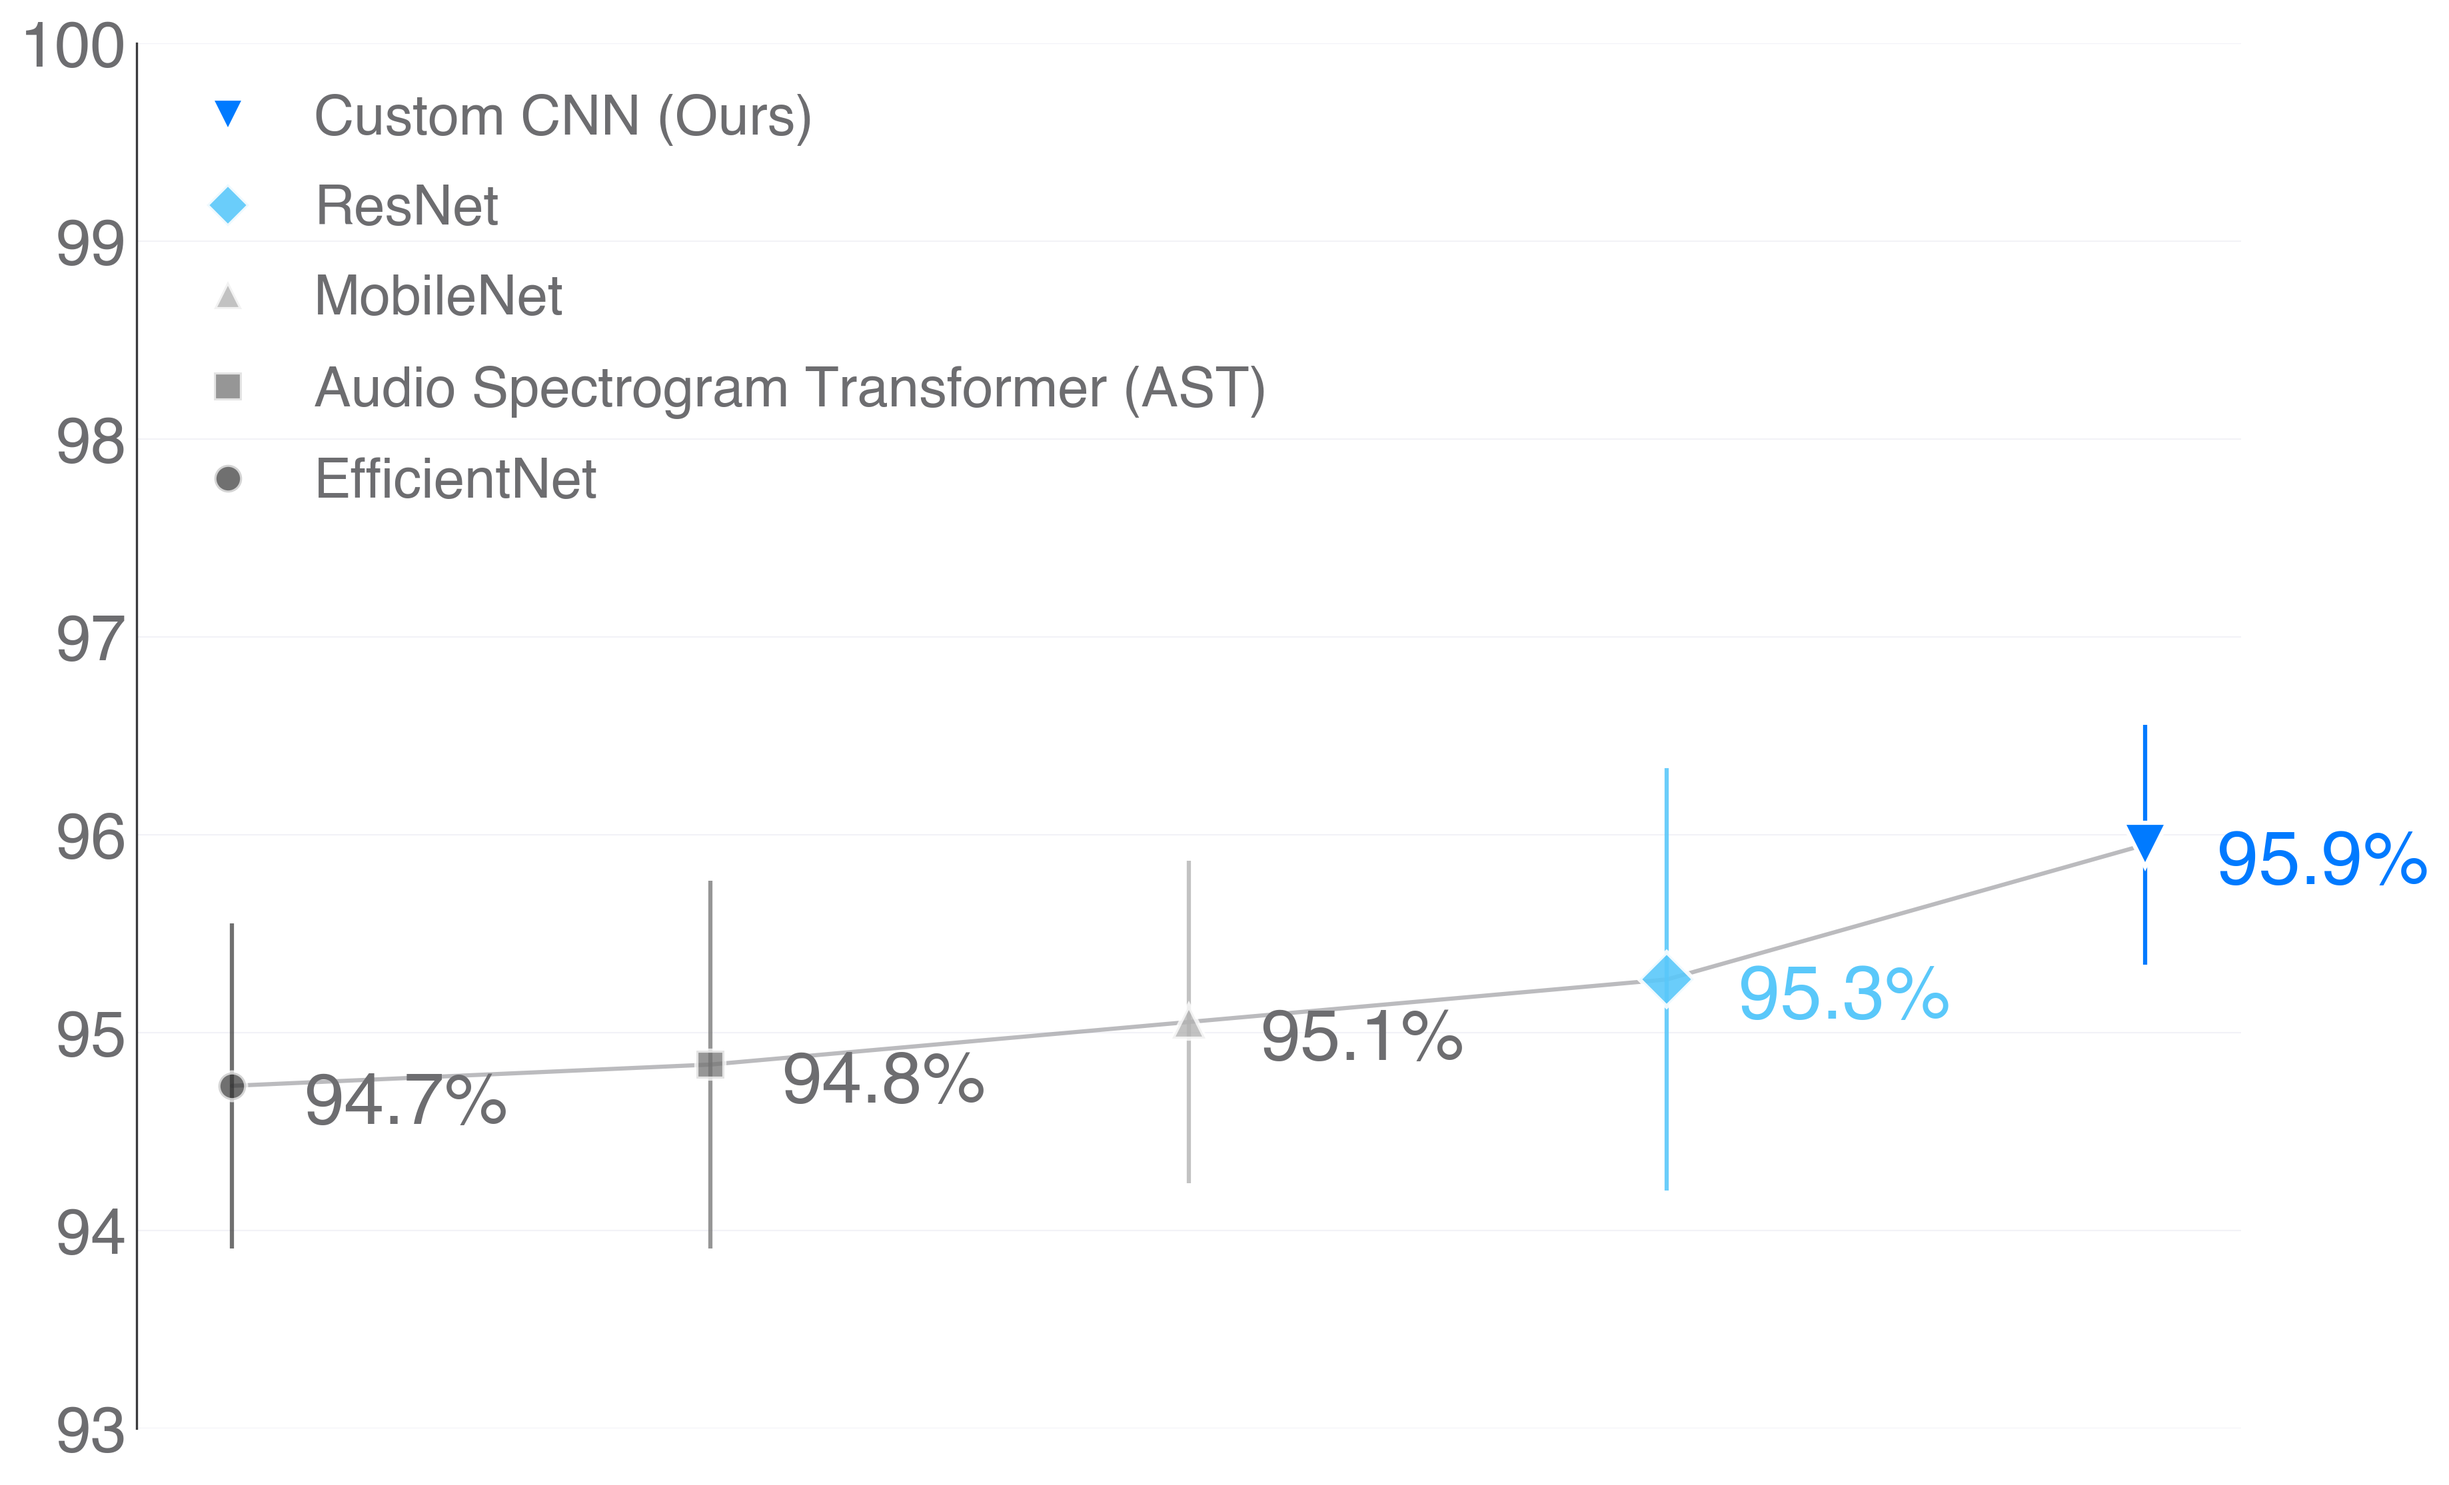
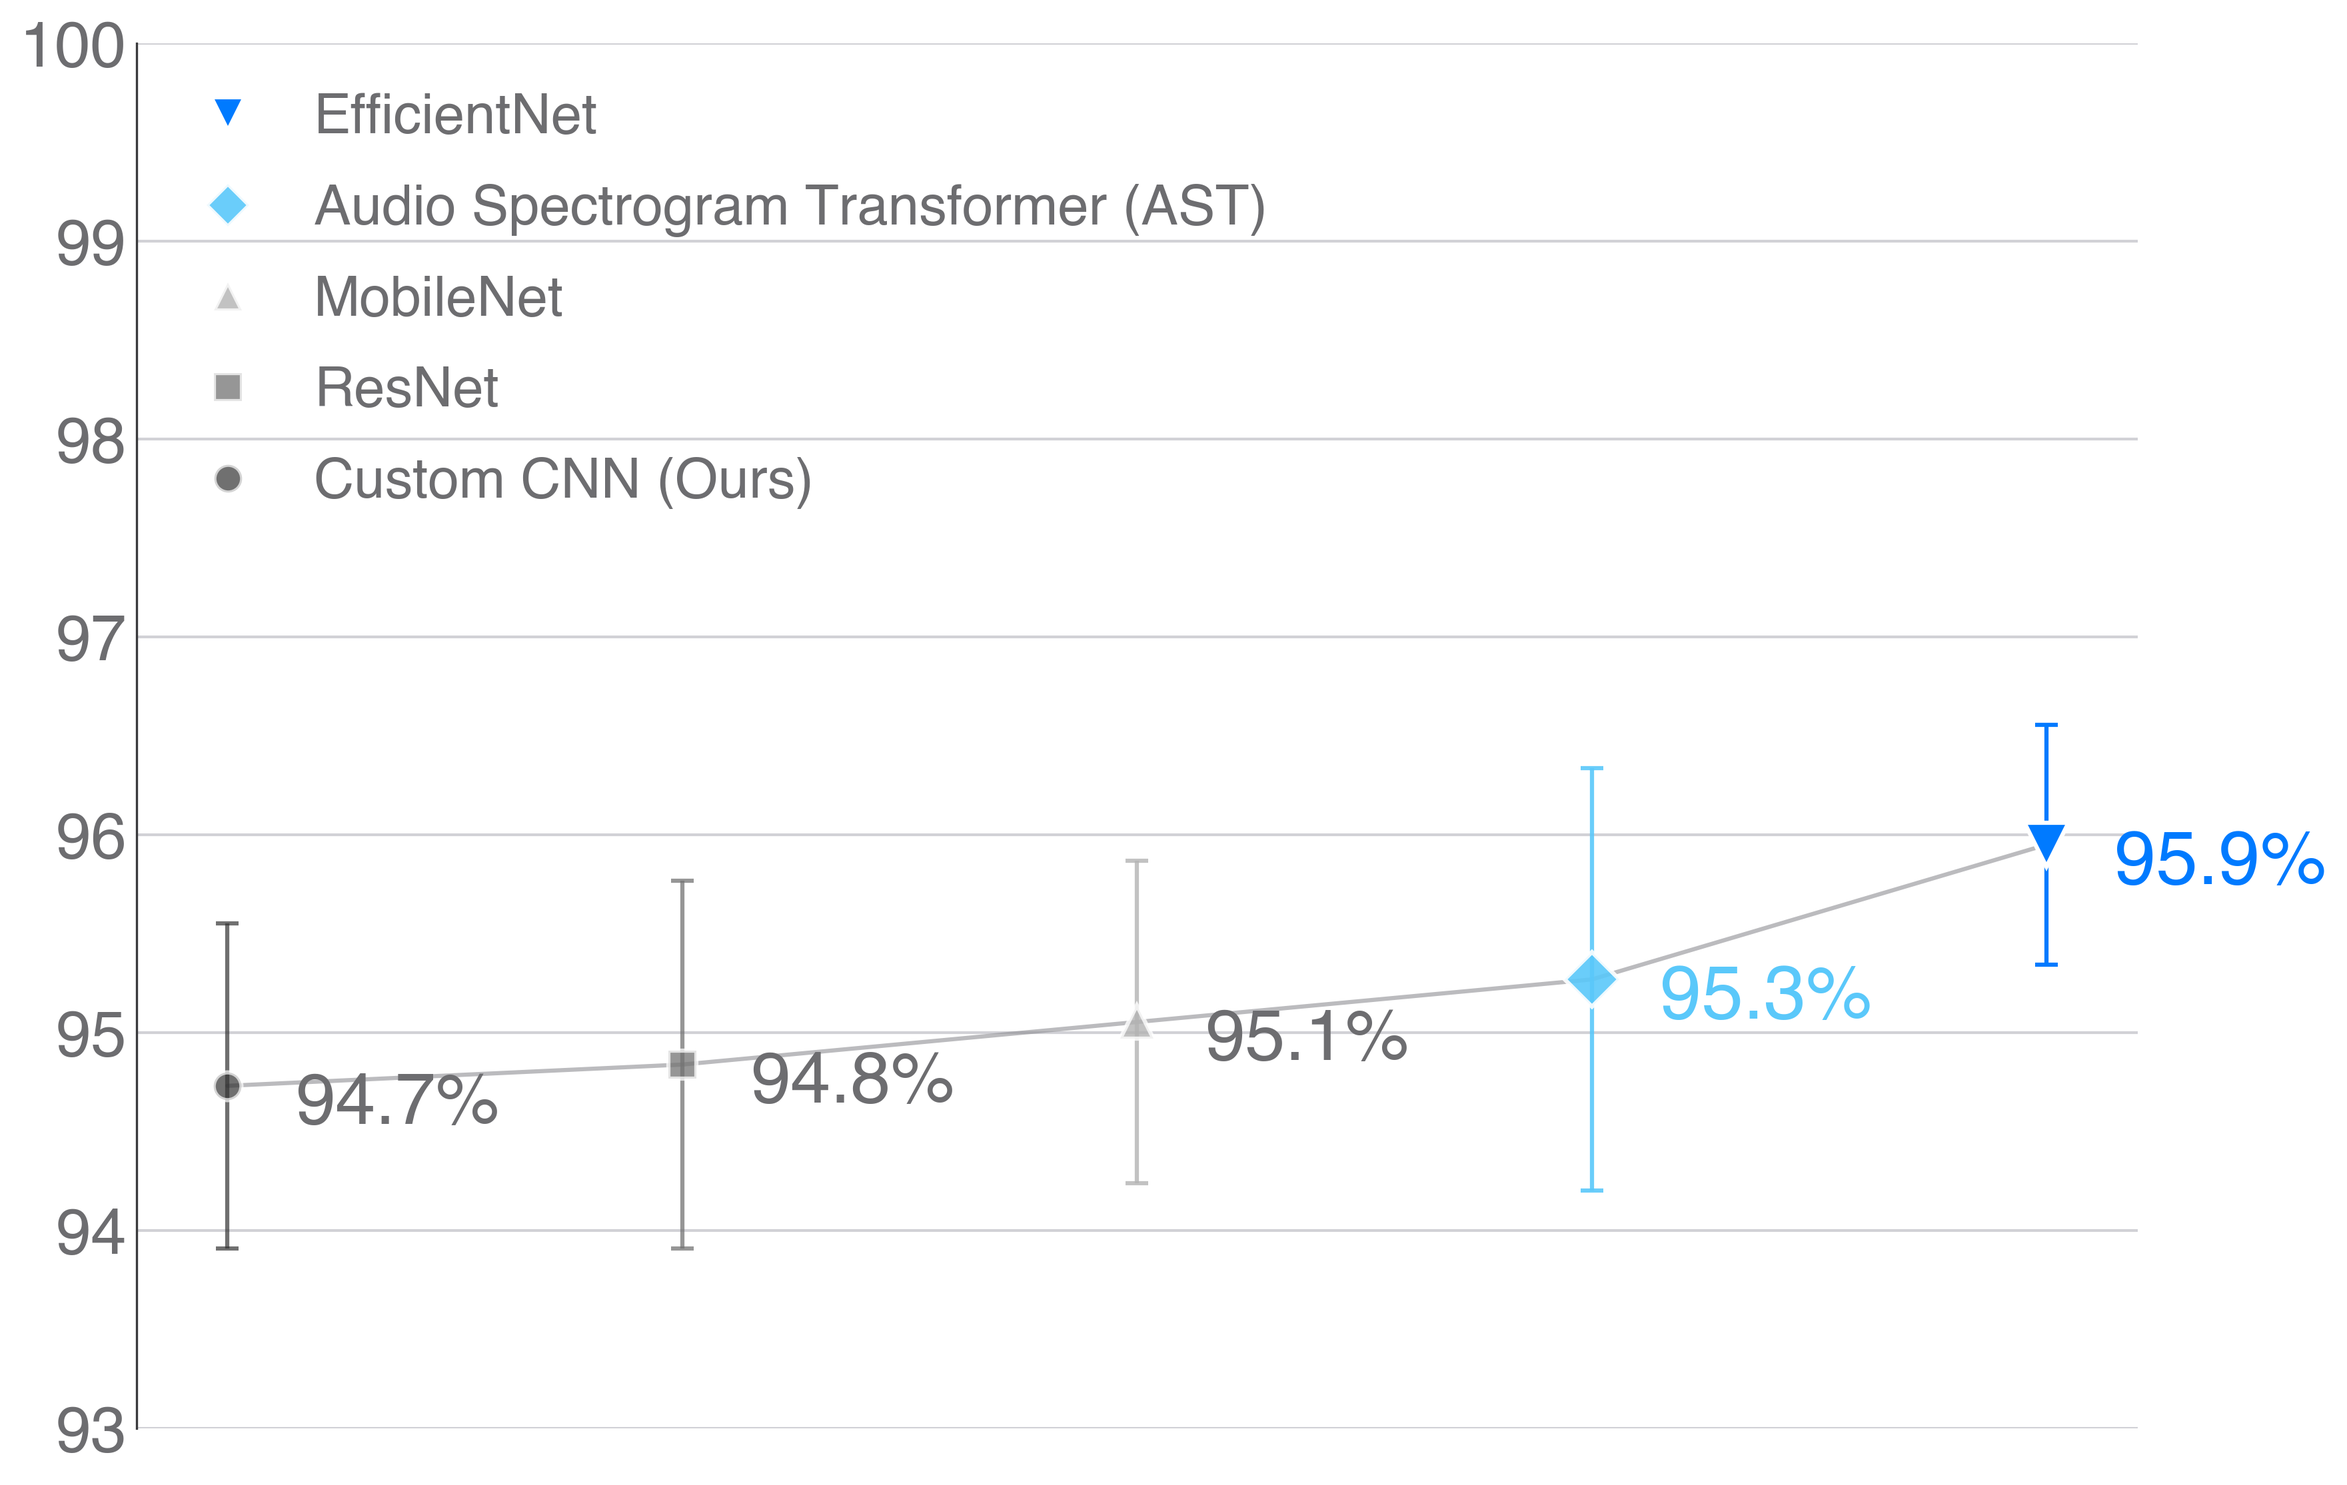
added figs for journal

diff --git a/src/images/Best-runs-viz.py b/src/images/Best-runs-viz.py
@@ -5,7 +5,8 @@ import numpy as np
 import re
 
 # Load the CSV file
-csv_path = "Best Results Export Aug 1 2025.csv"
+# csv_path = "Best Results Export Aug 1 2025.csv"
+csv_path = "Best Results Export Aug 26 2025.csv" # this path has metrics on trainable parameters.
 df = pd.read_csv(csv_path)
 
 def extract_model_type_from_name(name):
@@ -72,7 +73,7 @@ plt.rcParams['font.family'] = 'sans-serif'
 plt.rcParams['font.sans-serif'] = ['SF Pro Display', 'Helvetica', 'Arial', 'DejaVu Sans']
 
 # Create the main plot with more generous spacing
-fig, ax = plt.subplots(1, 1, figsize=(12.1, 9))
+fig, ax = plt.subplots(1, 1, figsize=(13, 9))
 
 # Apple-inspired minimal color palette - grays with one accent color
 accent_color = '#007AFF'  # Apple's signature blue
@@ -136,8 +137,8 @@ for i, (x, row) in enumerate(zip(x_pos, model_df.itertuples())):
     ax.errorbar(x, accuracy, 
                 yerr=std_accuracy,
                 fmt=marker_map[model_type],  # Different marker shapes
-                capsize=0,  # Remove caps for cleaner look
-                capthick=0,
+                capsize=4,  # Add caps at the ends of error bars
+                capthick=1.5,
                 markersize=marker_size,
                 markerfacecolor=color_map[model_type],
                 markeredgecolor='white',  # Subtle white edge
@@ -165,7 +166,7 @@ ax.spines['left'].set_linewidth(0.8)
 y_ticks = [93, 94, 95, 96, 97, 98, 99, 100]  # Include both start (93) and end (100) range numbers
 ax.set_yticks(y_ticks)
 for y in y_ticks:
-    ax.axhline(y=y, color='#F2F2F7', linewidth=0.5, zorder=0)
+    ax.axhline(y=y, color='#D1D1D6', linewidth=1, zorder=0)  # Darker gray hex
 
 # Remove x-axis labels for models as requested - clean minimal x-axis
 ax.set_xticks(x_pos)
@@ -225,10 +226,9 @@ for i, model in enumerate(unique_models):
                                          markeredgewidth=1.5,
                                          alpha=alpha_map[model]))
 
-legend_elements.reverse()
 
 # Position legend elegantly without frame
-ax.legend(legend_elements, unique_models, 
+ax.legend(legend_elements[::-1], unique_models[::-1], 
           loc='upper left', 
           frameon=False,  # Remove legend frame for cleaner look
           fontsize=20,  # Increased by 50% from 13
@@ -238,7 +238,7 @@ ax.legend(legend_elements, unique_models,
           labelcolor=medium_gray)
 
 # Apply generous margins and spacing (Apple design loves white space)
-plt.subplots_adjust(left=0.08, right=0.95, top=0.92, bottom=0.15)
+plt.subplots_adjust(left=0.08, right=0.85, top=0.92, bottom=0.15)
 
 # Save with high quality for crisp, clean output
 output_path = "/Users/applefella/Documents/UAV_Classification/UAV_Classification/src/images/best_results_model_performance_comparison.png"
